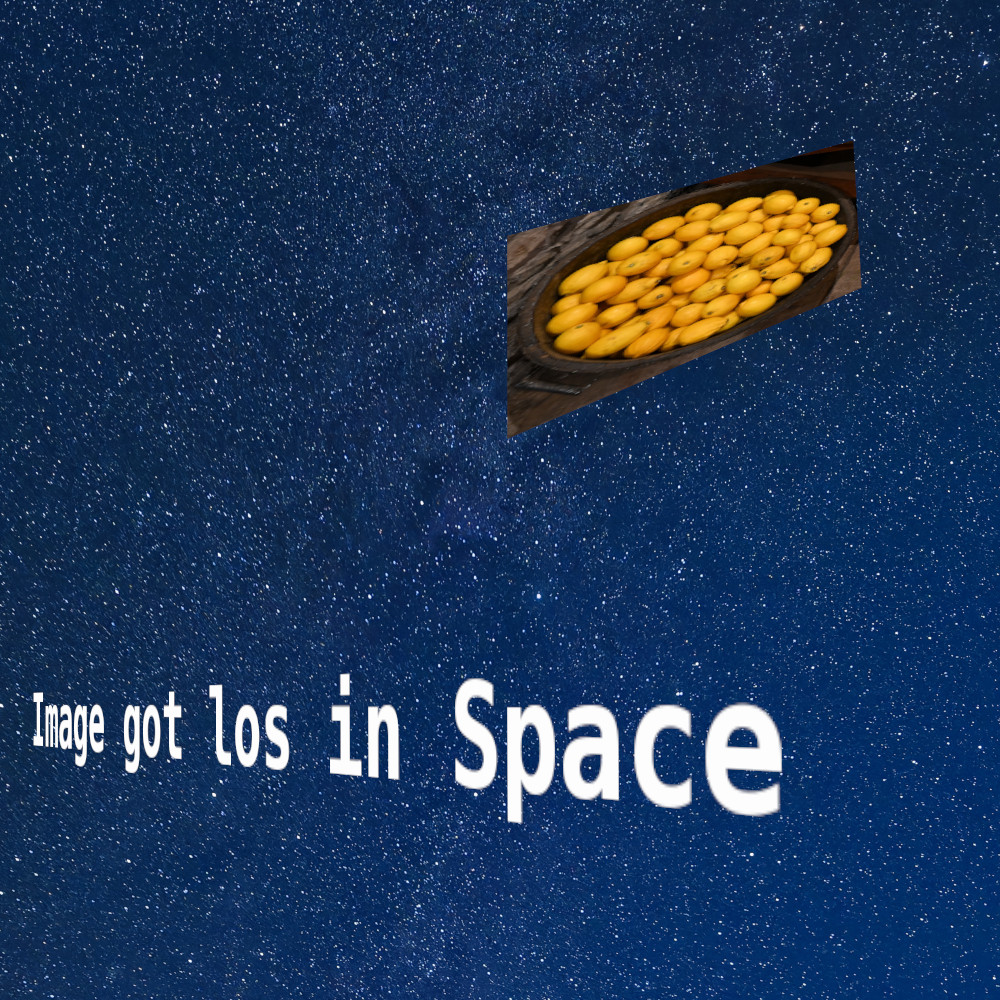
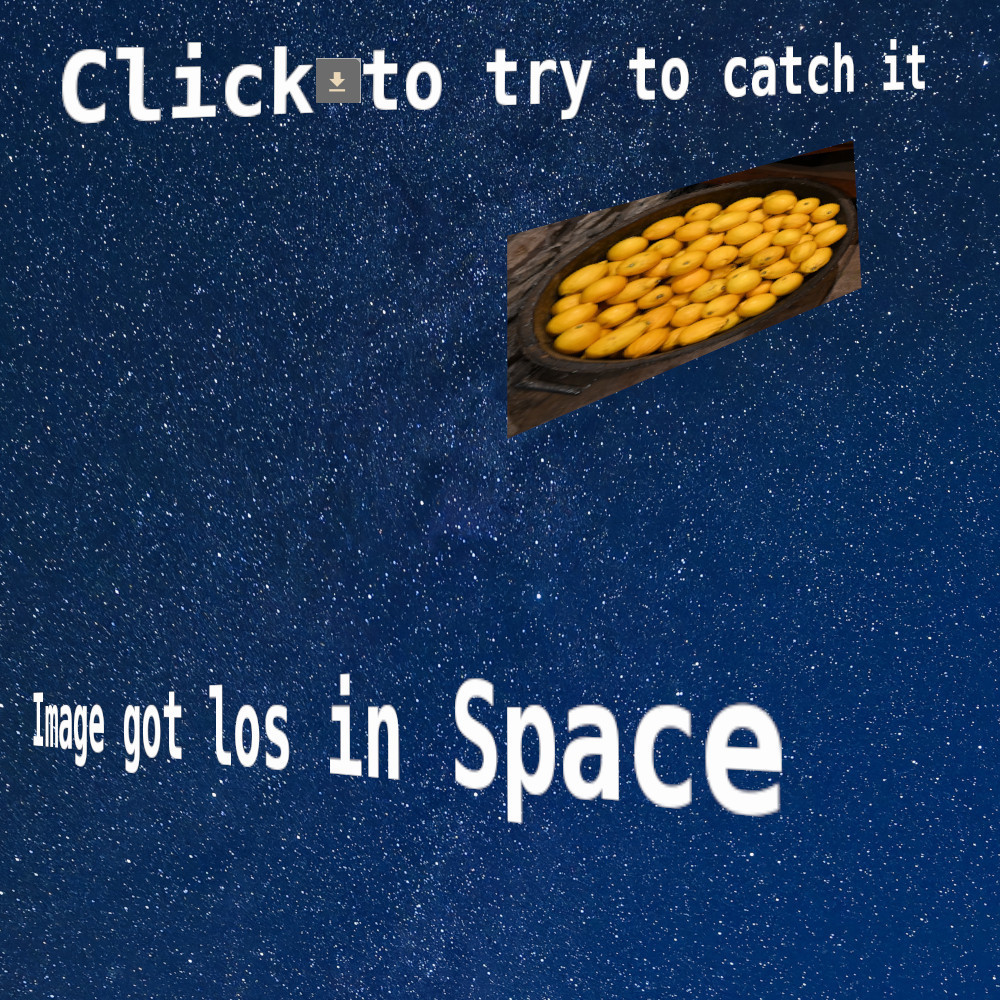
change lost image

Changed region(s): [[0.062, 0.031, 0.589, 0.124], [0.62, 0.031, 0.93, 0.124]]

diff --git a/devproject/plugins/dprevived-plugin/dprevived_plugin/static/js/dprevived.js b/devproject/plugins/dprevived-plugin/dprevived_plugin/static/js/dprevived.js
@@ -442,7 +442,7 @@ function startup(){
         e.addEventListener('load',loadedOvImage);
         e.addEventListener('error',  (e) =>{let t = e.target;
                                             console.log(t.src);
-                                            t.src= "/static/lost.jpg"; //window.location.origin
+                                            t.src= "/static/lost.jpg?x"; //window.location.origin
                                             t.classList.add("lost");
                                             });
         });

diff --git a/devproject/plugins/dprevived-plugin/dprevived_plugin/context_processors.py b/devproject/plugins/dprevived-plugin/dprevived_plugin/context_processors.py
@@ -6,7 +6,7 @@ from logging import getLogger
 from django.db import connection
 from devproject import settings
 
-__version__ = "23"
+__version__ = "24"
 logger = getLogger("the-photo")
 logger.info("The-Photo Version:%s"%__version__)
 
